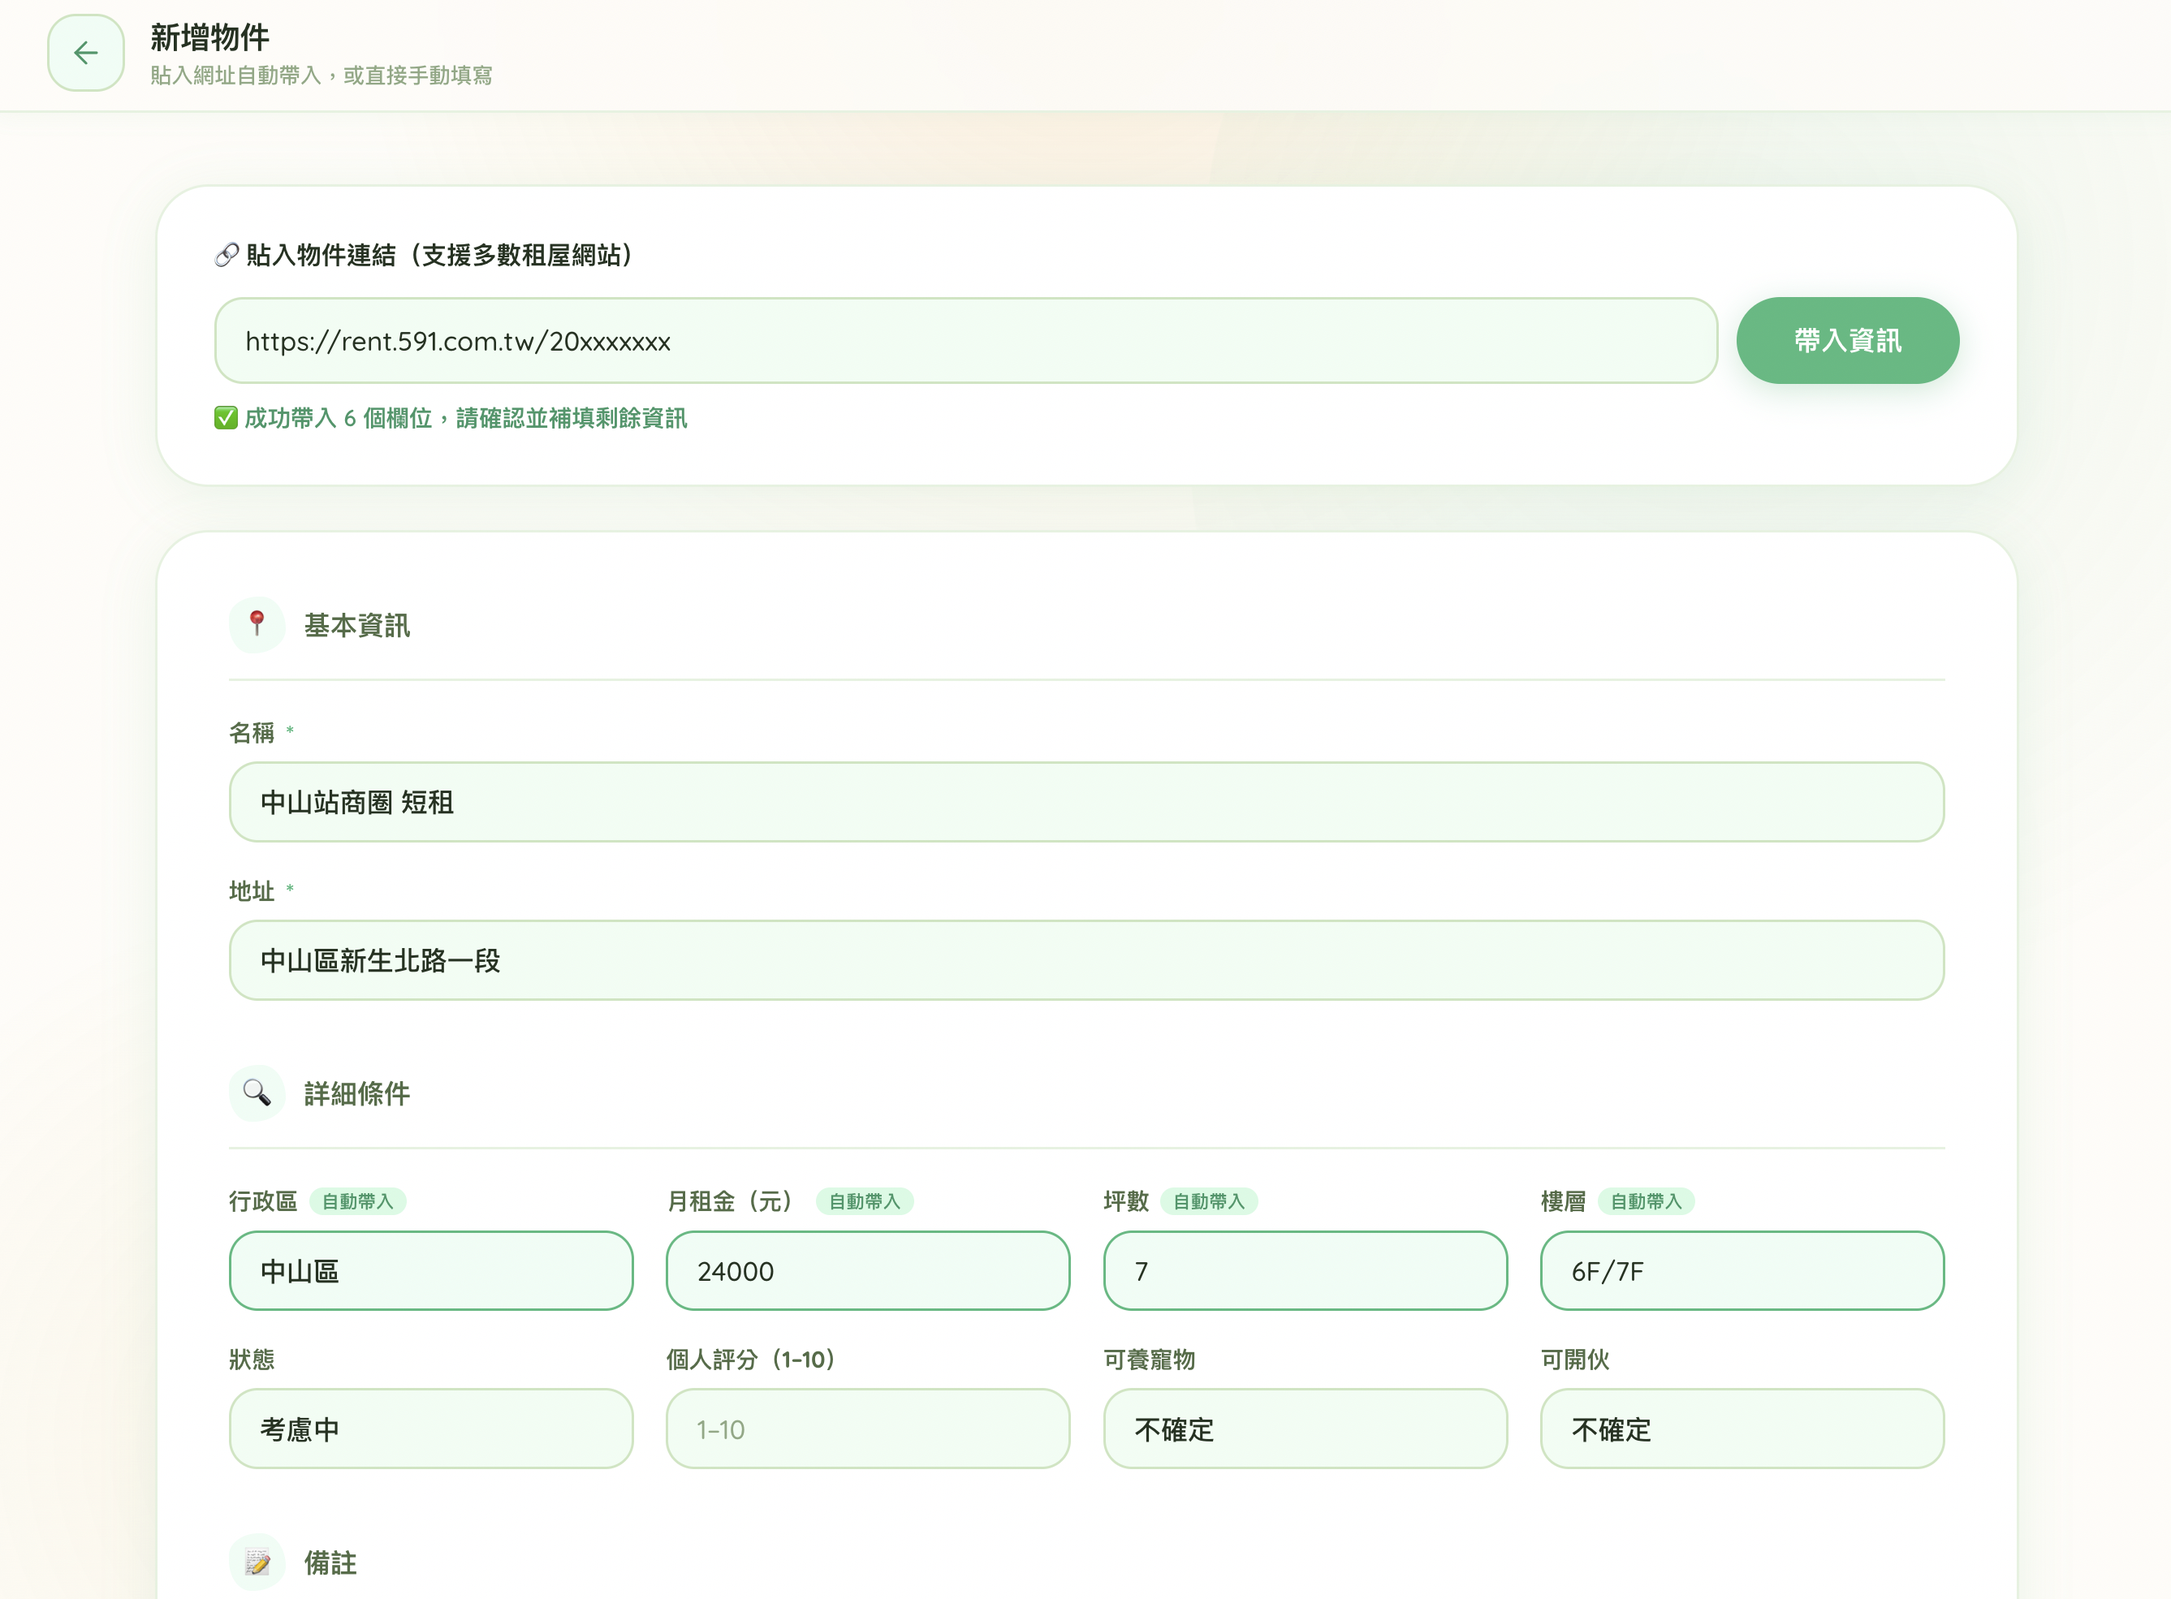
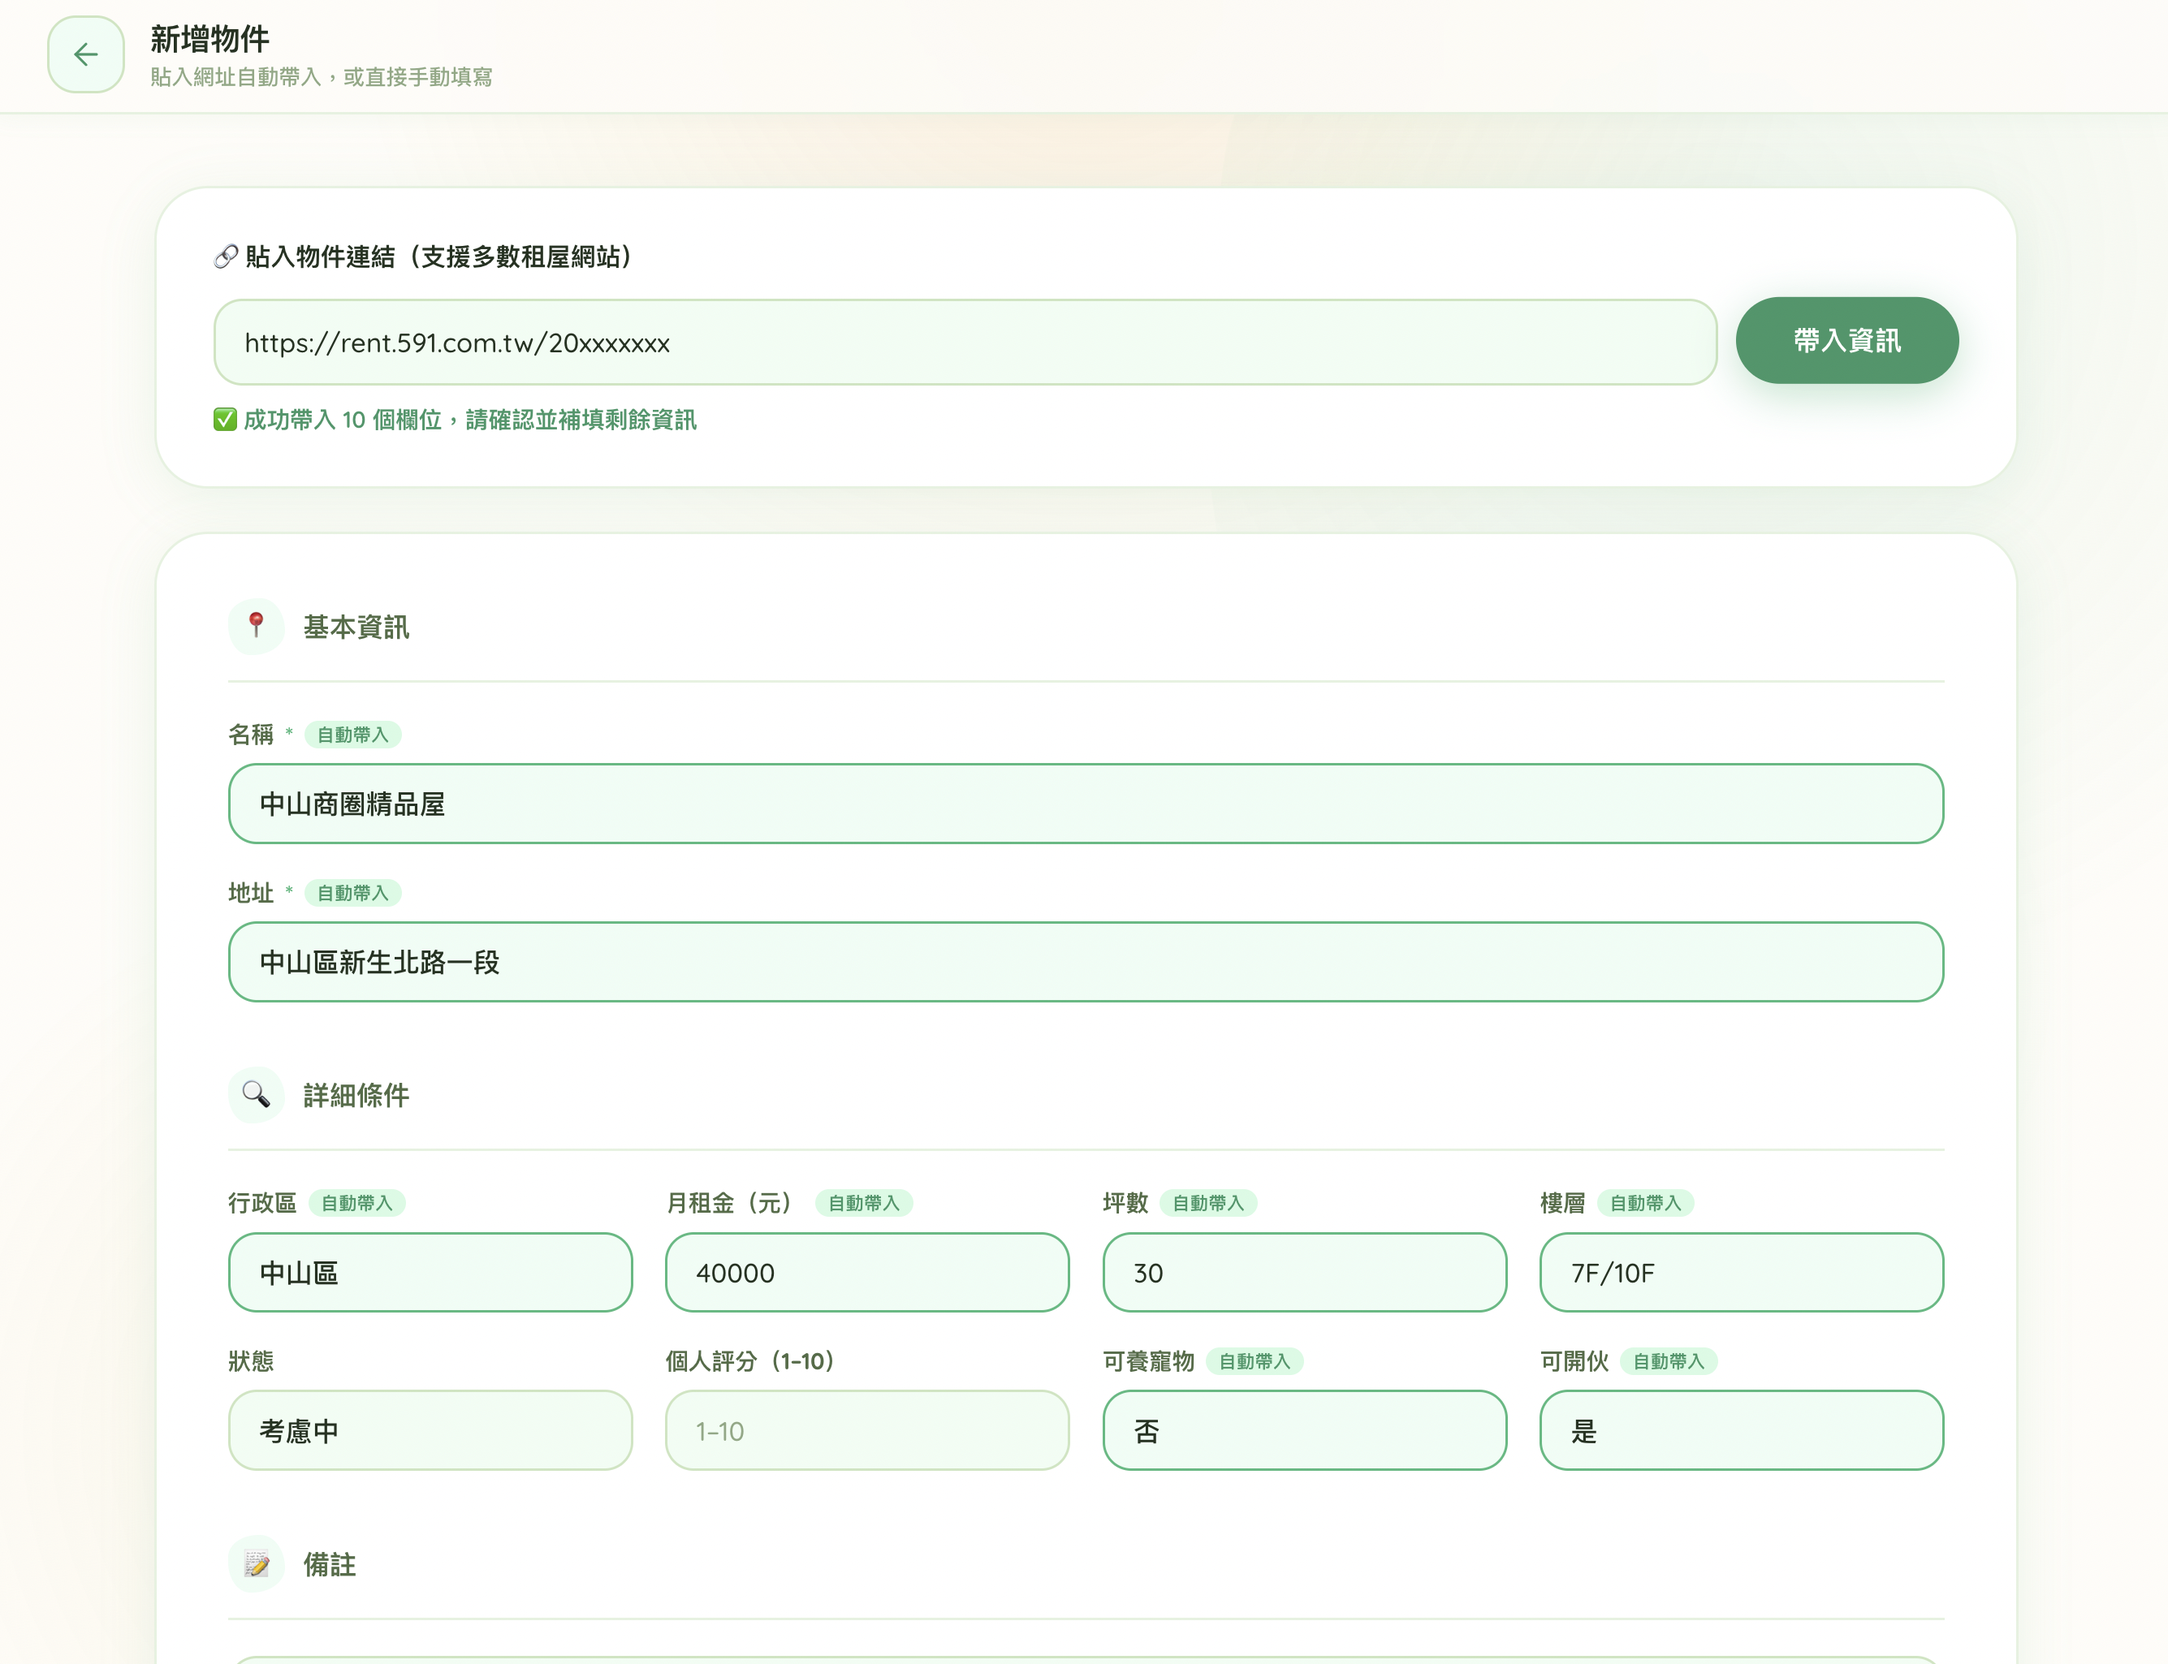
chore: add demo scrape mock, hide unused fields, update screenshots

diff --git a/frontend/src/pages/HouseDetailPage.tsx b/frontend/src/pages/HouseDetailPage.tsx
@@ -10,7 +10,6 @@ interface House {
   rent_price: number | null;
   size_ping: number | null;
   floor: string | null;
-  management_fee: number | null;
   pet_friendly: boolean | null;
   cooking_allowed: boolean | null;
   status: string;
@@ -470,9 +469,6 @@ export default function HouseDetailPage() {
             </InfoRow>
             <InfoRow label="坪數">{house.size_ping != null ? `${house.size_ping} 坪` : <Dash />}</InfoRow>
             <InfoRow label="樓層">{house.floor ?? <Dash />}</InfoRow>
-            <InfoRow label="管理費">
-              {house.management_fee != null ? `$${house.management_fee.toLocaleString()}` : <Dash />}
-            </InfoRow>
             <InfoRow label="可養寵物"><BoolBadge value={house.pet_friendly} /></InfoRow>
             <InfoRow label="可開伙"><BoolBadge value={house.cooking_allowed} /></InfoRow>
             <InfoRow label="來源">{{ Manual: '手動新增' }[house.source as 'Manual'] ?? house.source}</InfoRow>

diff --git a/frontend/src/pages/PreferencesPage.tsx b/frontend/src/pages/PreferencesPage.tsx
@@ -210,17 +210,6 @@ export default function PreferencesPage() {
               <div style={{ display: "flex", flexDirection: "column", gap: 16 }}>
                 <div>
                   <label style={{ display: "block", fontSize: 13, fontWeight: 700, color: "var(--text-sub)", marginBottom: 7 }}>
-                    名稱標籤
-                  </label>
-                  <input
-                    className="field-input"
-                    value={companyLabel}
-                    onChange={(e) => setCompanyLabel(e.target.value)}
-                    placeholder="例如：公司A、辦公室"
-                  />
-                </div>
-                <div>
-                  <label style={{ display: "block", fontSize: 13, fontWeight: 700, color: "var(--text-sub)", marginBottom: 7 }}>
                     詳細地址
                   </label>
                   <input

diff --git a/backend/app/services/scraper.py b/backend/app/services/scraper.py
@@ -317,11 +317,29 @@ def _parse_generic(url: str, soup: BeautifulSoup) -> dict[str, Any]:
 
 # ── Public entry point ─────────────────────────────────────────────────────────
 
+_DEMO_DATA: dict[str, Any] = {
+    "source": "591",
+    "source_id": "20000000",
+    "url": "",
+    "title": "中山商圈精品屋",
+    "address": "中山區新生北路一段",
+    "district": "中山區",
+    "rent_price": 40000,
+    "size_ping": 30,
+    "floor": "7F/10F",
+    "pet_friendly": False,
+    "cooking_allowed": True,
+}
+
+
 async def scrape_url(url: str) -> dict[str, Any]:
     """
     Fetch *url* and return a dict of extracted house fields.
     Never raises — on any error returns {"url": url, "source": "Manual", "error": "..."}.
     """
+    if "20xxxxxxx" in url.lower():
+        return {**_DEMO_DATA, "url": url}
+
     if "591.com.tw" in url:
         post_id = _extract_591_post_id(url)
         if not post_id:

diff --git a/README.md b/README.md
@@ -6,8 +6,6 @@
 
 > ⚠ **Disclaimer**：本專案為個人自用工具，爬蟲功能請自行評估使用風險，作者不負任何責任（use at your own risk）。
 
-[![Ko-fi](https://img.shields.io/badge/Ko--fi-支持我-72C1AA?logo=ko-fi&logoColor=white)](https://ko-fi.com/no30131)
-
 ---
 
 ## ✨ 功能特色
@@ -195,3 +193,11 @@ renthouse-tracker/
 ## 📄 License
 
 MIT
+
+---
+
+## ☕ Buy me a coffee
+
+如果這個專案對你有幫助，歡迎請我喝杯咖啡 ☕
+
+[![Buy me a coffee](https://img.shields.io/badge/Buy%20me%20a%20coffee-ko--fi-72C1AA?style=for-the-badge&logo=ko-fi&logoColor=white)](https://ko-fi.com/no30131)
